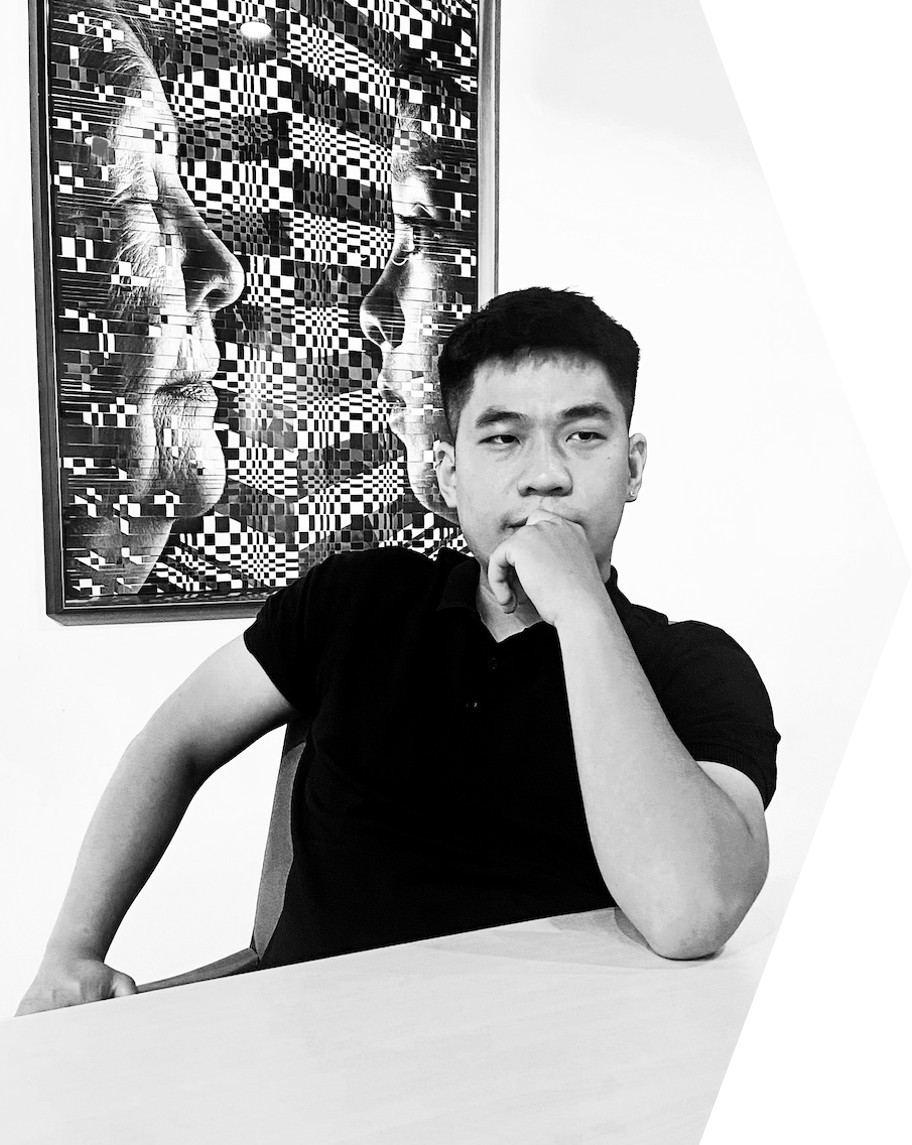
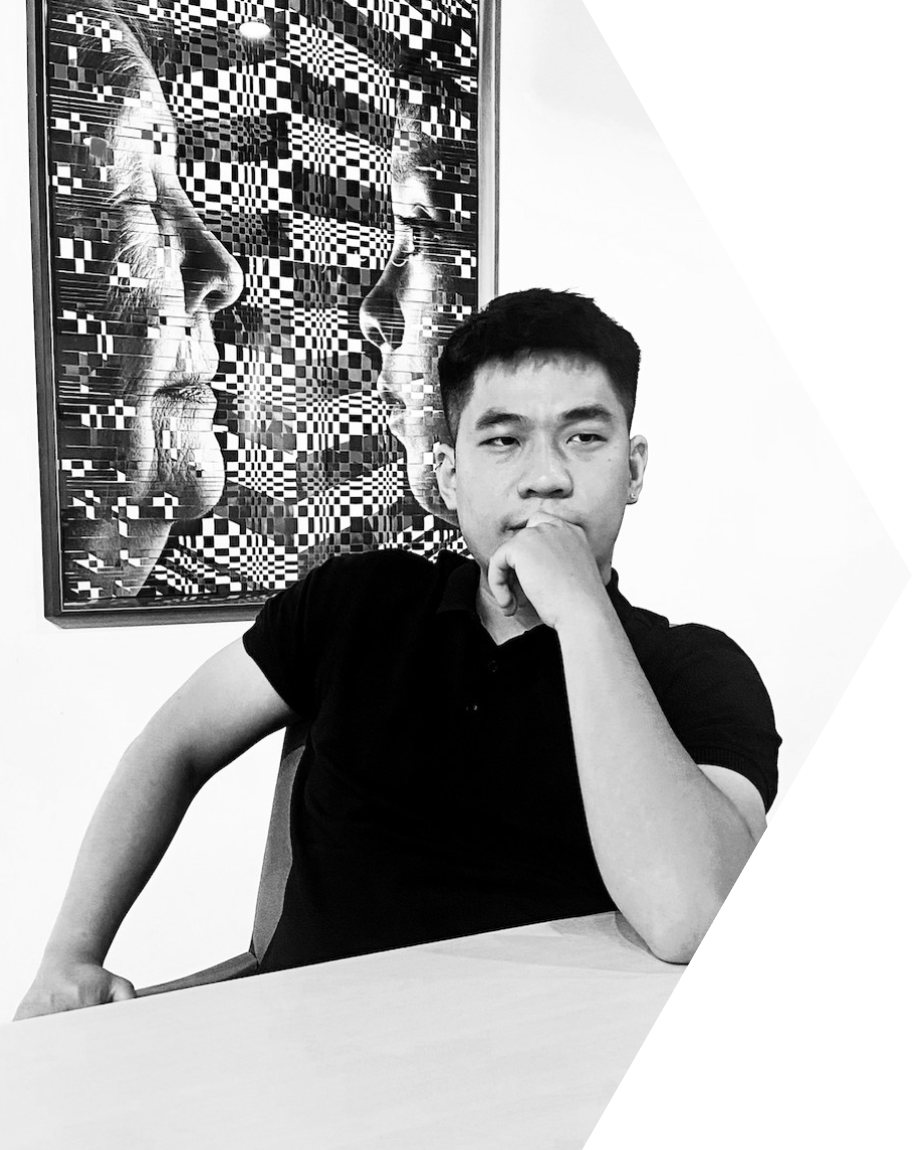
ASP - fix img, text

diff --git a/index.html b/index.html
@@ -169,7 +169,7 @@
           </div>
           <div class="col-12 slider_text_holder mt-1">
             <h1 class="slider_text text-center" data-aos="fade-up" data-aos-duration="800">
-              GOOD SPICES - GOOD LIFE
+              GOOD SPICES - GOOD LIFE&nbsp&nbsp&nbsp&nbsp&nbsp
             </h1>
           </div>
         </div>

diff --git a/css/eartic_custome_style.css b/css/eartic_custome_style.css
@@ -495,7 +495,7 @@ li.dropdown:hover > .main_nav_ul {
 .about_img_2 {
     height: 734px;
     object-fit: cover;
-    object-position: 20% center;
+    object-position: 0 center;
 }
 
 .gen_titt {
